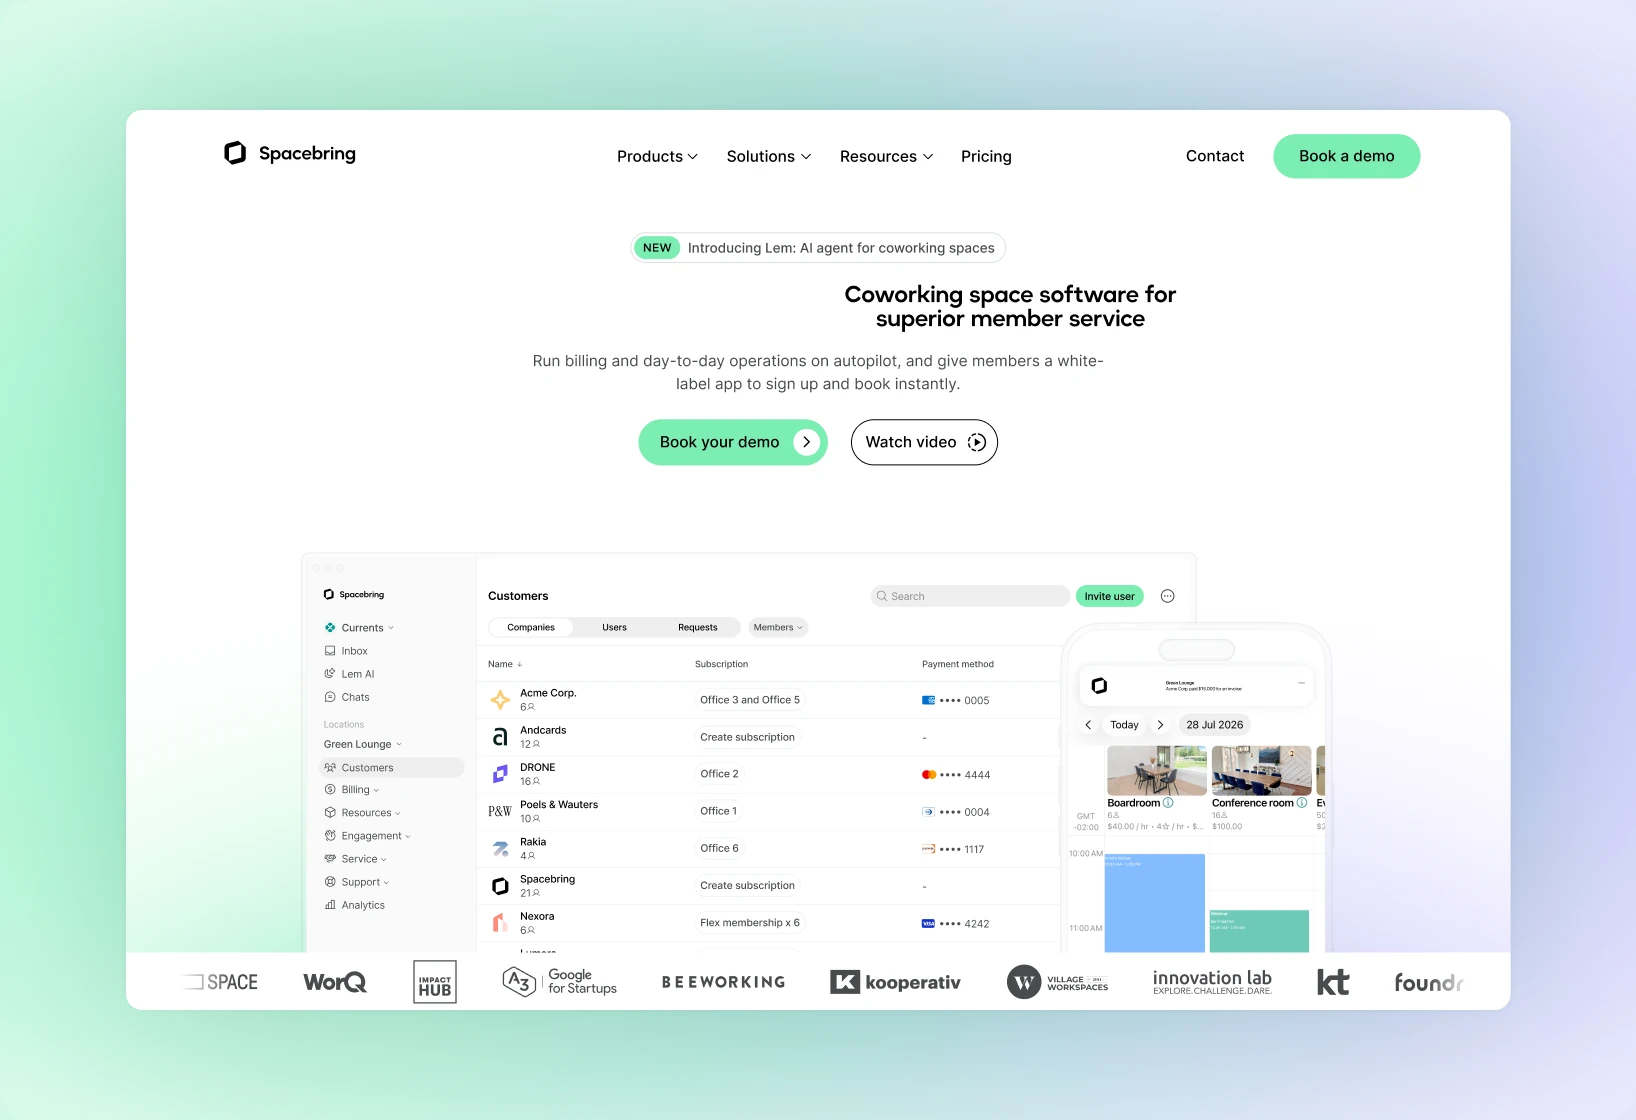
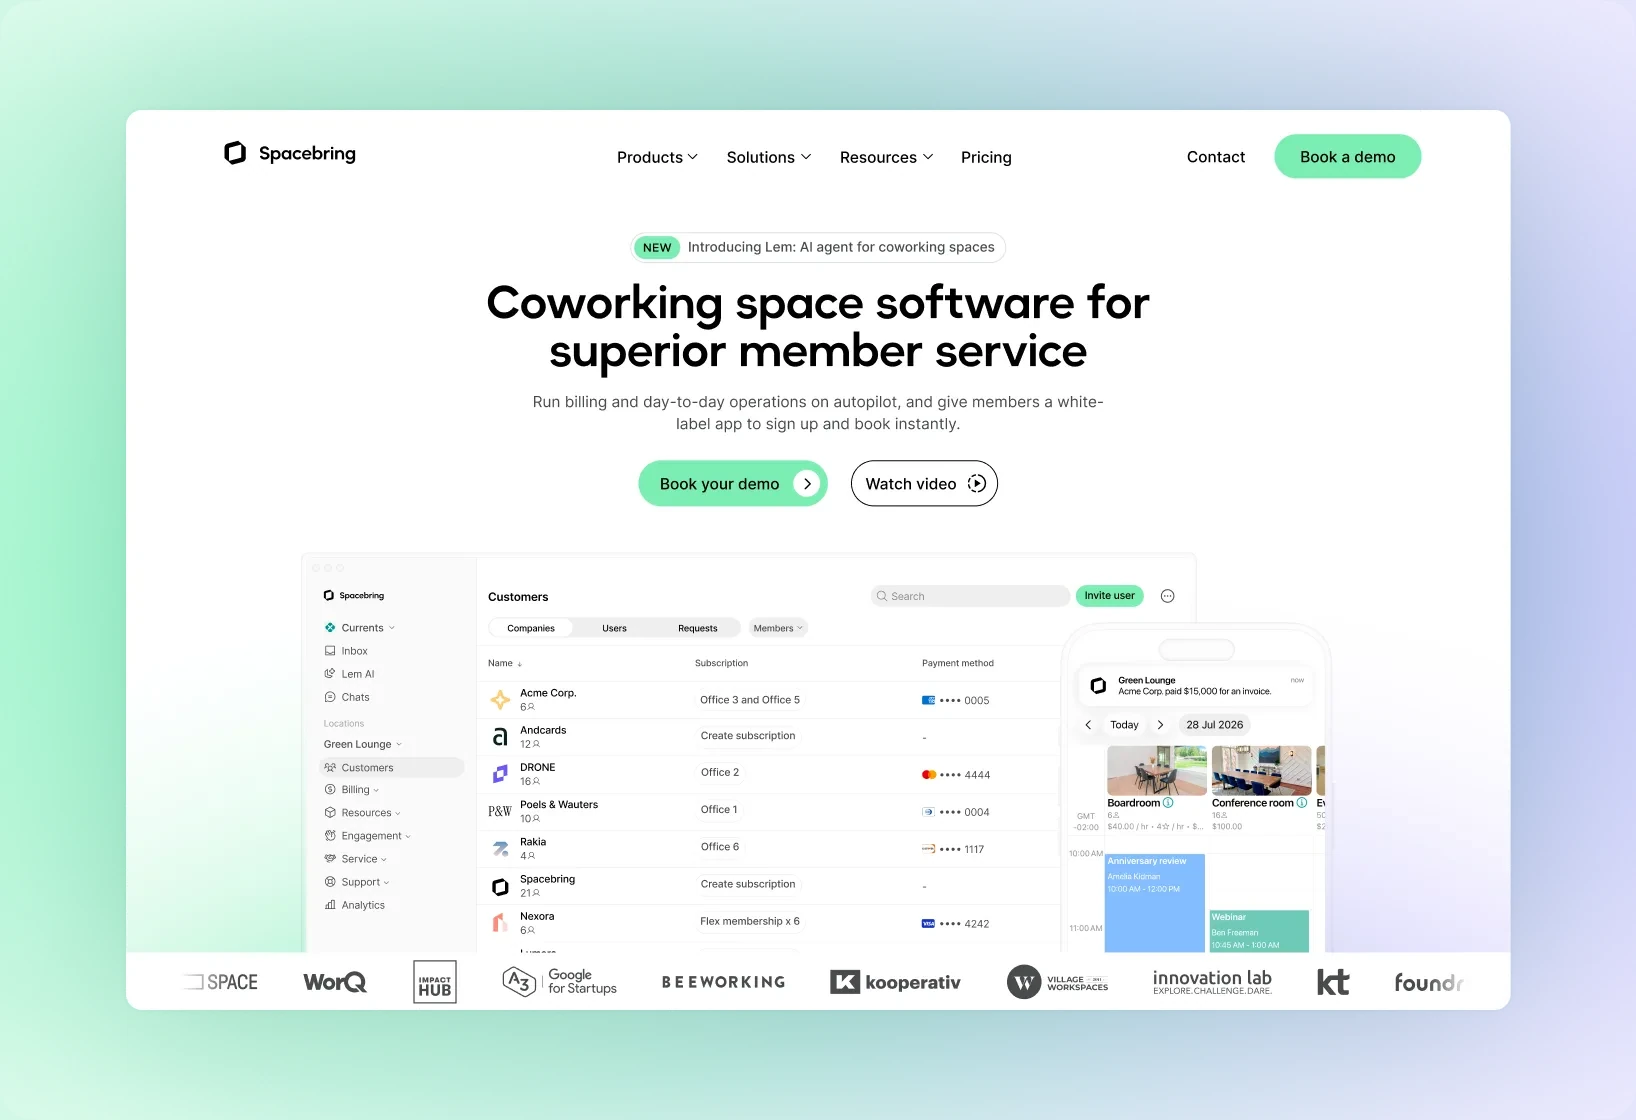
Spacebring marketing case pictures from her own Figma exports (the MCP render had wrong fonts and overlapping text), laid on the tile colours: cream for stories, blog, apps; the mint/lavender gradient for the hero and the home card (?v=2)

diff --git a/case-marketing.html b/case-marketing.html
@@ -75,7 +75,7 @@
           <div><dt>Live website</dt><dd><a class="cs-out" href="https://www.spacebring.com" target="_blank" rel="noopener">Visit the site <svg viewBox="0 0 12 12" width="12" height="12" aria-hidden="true"><path d="M3.5 8.5L8.5 3.5M4.5 3.5h4v4" fill="none" stroke="currentColor" stroke-linecap="round" stroke-linejoin="round"/></svg></a></dd></div>
         </dl>
       </header>
-      <figure class="st-hero st-hero--full"><img src="assets/case-marketing/hero.webp" alt="The Spacebring home page in the new brand on a mint and lavender gradient: Coworking space software for superior member service, with the admin app below and customer logos along the bottom" width="1636" height="1120" decoding="async"></figure>
+      <figure class="st-hero st-hero--full"><img src="assets/case-marketing/hero.webp?v=2" alt="The Spacebring home page in the new brand on a mint and lavender gradient: Coworking space software for superior member service, with the admin app below and customer logos along the bottom" width="1636" height="1120" decoding="async"></figure>
 
       <section class="st-sec" id="s1" aria-labelledby="h-s1">
         <h2 id="h-s1">Overview</h2>
@@ -84,7 +84,7 @@
           <p>As a UI/UX designer, I designed the website after Spacebring’s rebrand: more than 20 pages, the images on them, a component library to build them from, and layouts for tablet and phone. I worked closely with developers and the marketing team, and after launch I kept extending the site and the library as the product grew.</p>
         </div>
       </section>
-      <div class="st-pics st-pics--one"><figure class="st-tile"><img src="assets/case-marketing/stories.webp" alt="Two customer stories pages side by side: a list of coworking customers by region and size, a wall of reviews, and story cards with photos of their spaces" width="1636" height="1120" loading="lazy" decoding="async"></figure></div>
+      <div class="st-pics st-pics--one"><figure class="st-tile"><img src="assets/case-marketing/stories.webp?v=2" alt="Two customer stories pages side by side: a list of coworking customers by region and size, a wall of reviews, and story cards with photos of their spaces" width="1636" height="1120" loading="lazy" decoding="async"></figure></div>
 
       <section class="st-sec" id="s2" aria-labelledby="h-s2">
         <h2 id="h-s2">Challenge</h2>
@@ -102,7 +102,7 @@
           <p>Images followed one style with four kinds, each picked for what a section had to explain: product screenshots to show the real interface, cropped close-ups to point at one feature, diagrams to explain how parts of the product connect, collages to set the mood of a page.</p>
         </div>
       </section>
-      <div class="st-pics st-pics--one"><figure class="st-tile"><img src="assets/case-marketing/blog.webp" alt="Two views of the Spacebring blog: operator guides with a featured article, news and research sections, interviews, and a newsletter sign-up" width="1636" height="1120" loading="lazy" decoding="async"></figure></div>
+      <div class="st-pics st-pics--one"><figure class="st-tile"><img src="assets/case-marketing/blog.webp?v=2" alt="Two views of the Spacebring blog: operator guides with a featured article, news and research sections, interviews, and a newsletter sign-up" width="1636" height="1120" loading="lazy" decoding="async"></figure></div>
 
       <section class="st-sec" id="s4" aria-labelledby="h-s4">
         <h2 id="h-s4">Outcome</h2>
@@ -111,7 +111,7 @@
           <p>The library is still in use today. New pages are put together from existing sections, and the site has stayed consistent while it kept growing.</p>
         </div>
       </section>
-      <div class="st-pics st-pics--one"><figure class="st-tile"><img src="assets/case-marketing/apps.webp" alt="The Downloads page with the Spacebring, Reception and Room Display apps, beside the Integrations page with cards for payment, calendar and access tools" width="1636" height="1120" loading="lazy" decoding="async"></figure></div>
+      <div class="st-pics st-pics--one"><figure class="st-tile"><img src="assets/case-marketing/apps.webp?v=2" alt="The Downloads page with the Spacebring, Reception and Room Display apps, beside the Integrations page with cards for payment, calendar and access tools" width="1636" height="1120" loading="lazy" decoding="async"></figure></div>
       <a class="st-next" href="case-jeff.html"><span class="st-next__t"><span class="st-next__k">Next project</span><span class="st-next__n"><i>Jeff.Q Productions portfolio website</i></span></span><span class="st-next__go" aria-hidden="true"><svg viewBox="0 0 24 24" width="29" height="29" aria-hidden="true"><path d="M9 4.5l7.5 7.5L9 19.5" fill="none" stroke="currentColor" stroke-width="2" stroke-linecap="round" stroke-linejoin="round"/></svg></span></a>
     </div>
   </main>

diff --git a/index.html b/index.html
@@ -92,7 +92,7 @@
       <ul class="work__list">
         <li><a class="work__item" href="case-jeff.html"><span class="work__pic" data-hover="lace/works/jeff-wordmark.jpg"><span class="work__shot"><img src="lace/works/jeff.webp" alt="The Jeff.Q Productions home page on his pink: a reel of film cards on black with Maison Solenne at the front" width="1636" height="1120" decoding="async"></span></span><span class="work__cap"><span class="work__name">Jeff.Q Productions portfolio website</span><span class="work__year">2026</span></span></a></li>
         <li><a class="work__item" href="case-spacebring.html"><span class="work__pic" data-hover="#1b1b1b"><span class="work__shot"><img src="lace/works/spacebring-admin.webp?v=3" alt="The Spacebring admin app on green: the Customers list of a coworking space" width="1636" height="1120" loading="lazy" decoding="async"></span></span><span class="work__cap"><span class="work__name">Spacebring admin web app</span><span class="work__year">2025</span></span></a></li>
-        <li><a class="work__item" href="case-marketing.html"><span class="work__pic" data-hover="#1b1b1b"><span class="work__shot"><img src="lace/works/spacebring-marketing.webp" alt="The Spacebring home page in the new brand on a mint and lavender gradient" width="1636" height="1120" loading="lazy" decoding="async"></span></span><span class="work__cap"><span class="work__name">Spacebring marketing website</span><span class="work__year">2024</span></span></a></li>
+        <li><a class="work__item" href="case-marketing.html"><span class="work__pic" data-hover="#1b1b1b"><span class="work__shot"><img src="lace/works/spacebring-marketing.webp?v=2" alt="The Spacebring home page in the new brand on a mint and lavender gradient" width="1636" height="1120" loading="lazy" decoding="async"></span></span><span class="work__cap"><span class="work__name">Spacebring marketing website</span><span class="work__year">2024</span></span></a></li>
       </ul>
     </section>
 
